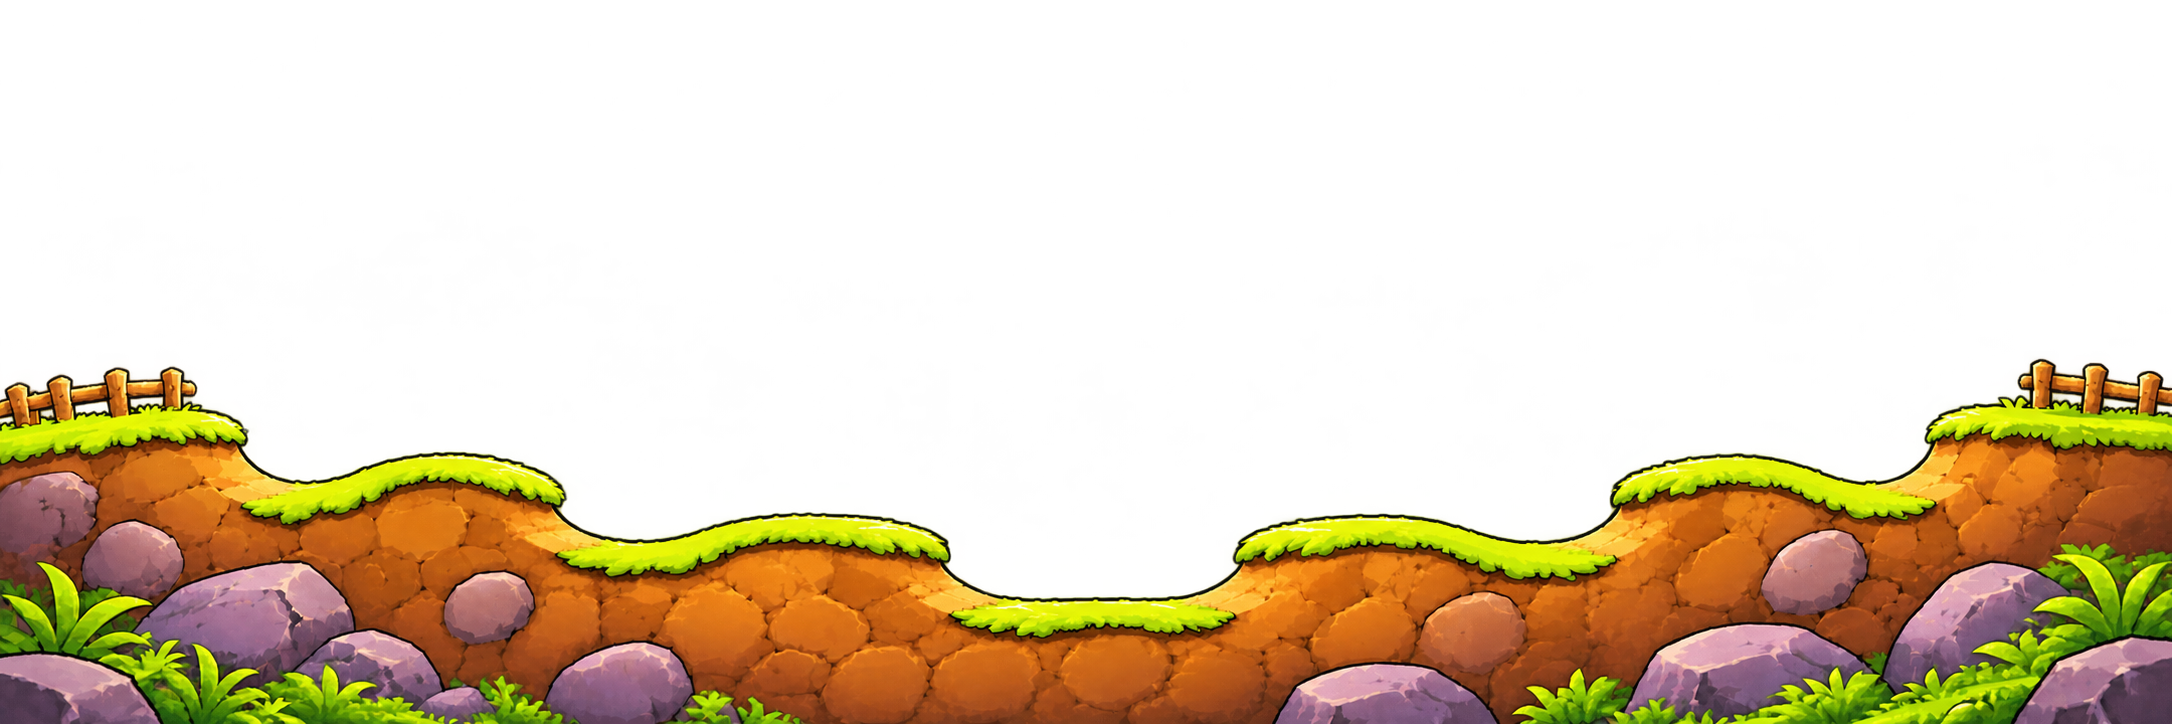
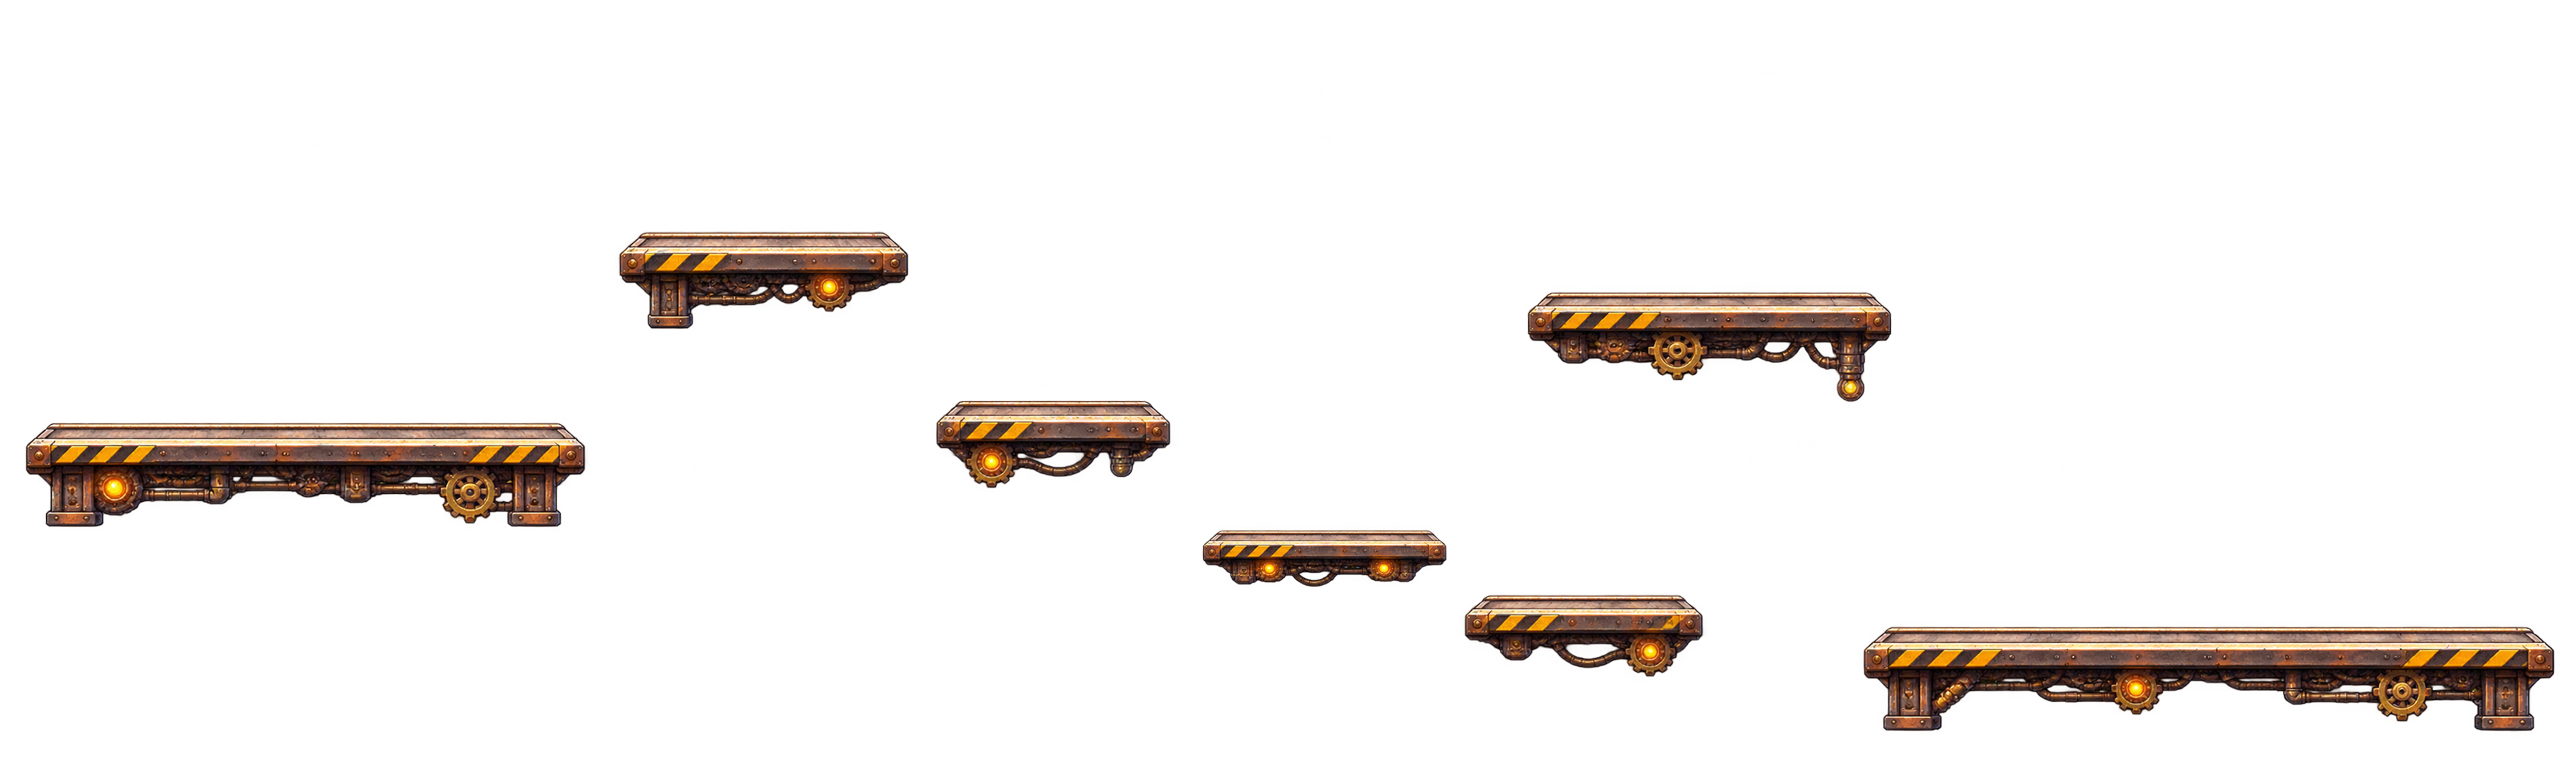
자연스러운 구덩이, 착탄 속도별 폭발 강도, 바람 강화, 화면 드래그
- 포탄 구덩이를 평평한 사발 모양으로 파고, 위에 남는 얇은 흙(처마)은 함께 제거
- 착탄 속도에 따라 구덩이 반경·데미지 0.7~1.3배
- 바람 가속을 최대 역풍·60°·풀파워 시 제자리로 돌아오도록 조정 (24.25)
- 조준 중 화면 드래그로 맵 둘러보기, 배경·땅 이미지 갱신

diff --git a/js/scenes/GameScene.js b/js/scenes/GameScene.js
@@ -36,6 +36,7 @@ class GameScene extends Phaser.Scene {
 
     this.debug = new URLSearchParams(location.search).has('debug');
     if (this.debug) this.setupDebug();
+    this.setupCameraDrag();
 
     cam.centerOn(this.tanks[0].x, CONFIG.WORLD_H / 2);
     this.startTurn();
@@ -51,15 +52,48 @@ class GameScene extends Phaser.Scene {
     const cam = this.cameras.main;
     const half = CONFIG.GAME_W / 2;
     const x = Phaser.Math.Clamp(tank.x, half, CONFIG.WORLD_W - half);
+    this.drag = null;
+    this.cameraFree = false;
     cam.stopFollow();
     cam.pan(x, CONFIG.WORLD_H / 2, 700, 'Sine.easeInOut', true, (c, progress) => {
-      if (progress === 1 && this.active === tank && this.state === 'aiming') {
-        cam.startFollow(tank.root, false, 0.15, 0.15);
-      }
+      if (progress === 1 && this.active === tank && this.state === 'aiming') this.followTank(tank);
     });
   }
 
+  // 내 턴에 쏘기 전(조준·충전 중)에는 화면을 끌어서 맵을 둘러볼 수 있다.
+  get canDragCamera() {
+    return (this.state === 'aiming' || this.state === 'charging') && !this.ai;
+  }
+
+  setupCameraDrag() {
+    const cam = this.cameras.main;
+    this.drag = null;
+    this.input.on('pointerdown', (p) => {
+      if (!this.canDragCamera) return;
+      this.drag = { x: p.x, scrollX: cam.scrollX };
+      cam.panEffect?.reset(); // 턴 시작 카메라 이동 중이면 멈춘다
+      cam.stopFollow();
+    });
+    this.input.on('pointermove', (p) => {
+      if (!this.drag || !p.isDown || !this.canDragCamera) return;
+      const maxX = CONFIG.WORLD_W - CONFIG.GAME_W;
+      cam.scrollX = Phaser.Math.Clamp(this.drag.scrollX - (p.x - this.drag.x), 0, maxX);
+      this.cameraFree = true;
+    });
+    const end = () => { this.drag = null; };
+    this.input.on('pointerup', end);
+    this.input.on('pointerupoutside', end);
+  }
+
+  // 둘러보던 화면을 다시 탱크로 붙인다.
+  followTank(tank) {
+    this.cameraFree = false;
+    this.cameras.main.startFollow(tank.root, false, 0.15, 0.15);
+  }
+
   followShell(shell) {
+    this.drag = null;
+    this.cameraFree = false;
     this.followedShell = shell;
     const cam = this.cameras.main;
     cam.stopFollow();
@@ -120,8 +154,11 @@ class GameScene extends Phaser.Scene {
     this.timeLeft -= dt;
     if (this.timeLeft <= 0) { this.beginResolve(); return; }
 
-    if (this.cursors.left.isDown) tank.move(-1, dt);
-    else if (this.cursors.right.isDown) tank.move(1, dt);
+    let moved = false;
+    if (this.cursors.left.isDown) moved = tank.move(-1, dt);
+    else if (this.cursors.right.isDown) moved = tank.move(1, dt);
+    // 둘러보다가 탱크를 움직이면 화면이 다시 탱크를 따라간다.
+    if (moved && this.cameraFree && !this.drag) this.followTank(tank);
 
     const T = CONFIG.TANK;
     if (this.cursors.up.isDown) tank.elevation += T.AIM_SPEED * dt;
@@ -230,22 +267,33 @@ class GameScene extends Phaser.Scene {
     s.sprite.destroy();
     s.trail.stop();
     this.time.delayedCall(500, () => s.trail.destroy());
-    if (hit !== 'out') this.explode(s.x, s.y, s.weapon);
+    if (hit !== 'out') this.explode(s.x, s.y, s.weapon, Math.hypot(s.vx, s.vy));
     // 따라가던 포탄이 끝나면 아직 날고 있는 다른 포탄으로 넘어간다.
     if (this.followedShell === s) this.followShell(this.shells[0] || null);
   }
 
-  explode(x, y, weapon) {
-    this.terrain.carve(x, y, weapon.radius);
+  // speed: 착탄 순간 속도. 빠를수록 구덩이가 크고 데미지가 세다.
+  explode(x, y, weapon, speed) {
+    const P = CONFIG.PHYSICS;
+    let scale = 1;
+    if (speed !== undefined) {
+      const k = Phaser.Math.Clamp(
+        (speed - P.IMPACT_SPEED_MIN) / (P.IMPACT_SPEED_MAX - P.IMPACT_SPEED_MIN), 0, 1);
+      scale = P.IMPACT_SCALE_MIN + (P.IMPACT_SCALE_MAX - P.IMPACT_SCALE_MIN) * k;
+    }
+    const radius = weapon.radius * scale;
+    const damage = weapon.damage * scale;
+
+    this.terrain.carve(x, y, radius);
     for (const t of this.tanks) {
       if (t.dead) continue;
       const d = Math.hypot(t.x - x, t.y - CONFIG.TANK.HIT_CENTER_Y - y);
       const edge = Math.max(0, d - CONFIG.TANK.BODY_RADIUS);
-      if (edge < weapon.radius) {
-        t.damage(Math.round(weapon.damage * (1 - edge / weapon.radius)));
+      if (edge < radius) {
+        t.damage(Math.round(damage * (1 - edge / radius)));
       }
     }
-    this.explosionFx(x, y, weapon.radius);
+    this.explosionFx(x, y, radius);
   }
 
   beginResolve() {

diff --git a/js/terrain.js b/js/terrain.js
@@ -189,35 +189,59 @@ class Terrain {
 
   // ---- 변형 ----
 
+  // 열(column) 단위로 파낸다. 바닥은 평평한 사발 모양이고,
+  // 구덩이 위로 얇게 남는 흙(처마)은 함께 걷어 내 공중에 뜬 흙이 생기지 않게 한다.
   carve(cx, cy, r) {
-    const r2 = r * r;
+    const { w, h, solid } = this;
+    const depth = r * 0.72;        // 폭발 중심 아래로 파이는 깊이
+    const p = 2.6;                 // 클수록 바닥이 평평하고 벽이 가파르다
+    const lipMax = r * 1.1;        // 이 두께 이하의 처마만 걷어 낸다 (두꺼운 절벽은 남김)
+    const ph1 = Math.random() * Math.PI * 2;
+    const ph2 = Math.random() * Math.PI * 2;
     const x0 = Math.max(0, Math.floor(cx - r));
-    const x1 = Math.min(this.w - 1, Math.ceil(cx + r));
-    const y0 = Math.max(0, Math.floor(cy - r));
-    const y1 = Math.min(this.h - 1, Math.ceil(cy + r));
-    for (let y = y0; y <= y1; y++) {
-      for (let x = x0; x <= x1; x++) {
-        if ((x - cx) ** 2 + (y - cy) ** 2 <= r2) this.solid[y * this.w + x] = 0;
-      }
-    }
+    const x1 = Math.min(w - 1, Math.ceil(cx + r));
 
     const ctx = this.ctx;
     ctx.save();
     ctx.globalCompositeOperation = 'destination-out';
-    ctx.beginPath();
-    ctx.arc(cx, cy, r, 0, Math.PI * 2);
-    ctx.fill();
+    const bottom = [];
+    for (let x = x0; x <= x1; x++) {
+      const t = Math.min(1, Math.abs(x - cx) / r);
+      // 바닥선에 약간의 울퉁불퉁함을 준다 (가장자리로 갈수록 0).
+      const wobble = (Math.sin(x * 0.11 + ph1) * 0.6 + Math.sin(x * 0.27 + ph2) * 0.4) * r * 0.06 * (1 - t);
+      const yb = Math.min(h - 1, Math.round(cy + depth * Math.pow(1 - Math.pow(t, p), 1 / p) + wobble));
+      const half = Math.sqrt(Math.max(0, 1 - t * t)) * r * 0.85;
+      let yt = Math.max(0, Math.round(cy - half));
 
-    // 남은 흙 가장자리에만 그을음을 입힌다.
+      // 위쪽 처마: 폭발 범위 위로 이어진 흙 덩어리 두께를 재서 얇으면 같이 걷어 낸다.
+      let y = yt - 1;
+      while (y >= 0 && solid[y * w + x] === 1 && yt - y <= lipMax) y--;
+      if (y < 0 || solid[y * w + x] === 0) yt = y + 1;
+
+      if (yb >= yt) {
+        for (let yy = yt; yy <= yb; yy++) solid[yy * w + x] = 0;
+        ctx.fillRect(x, yt, 1, yb - yt + 1);
+      }
+      bottom.push(x, yb);
+    }
+
+    // 파인 바닥을 따라 그을음을 입힌다 (남은 흙 위에만).
     ctx.globalCompositeOperation = 'source-atop';
-    const rim = r + 14;
-    const grad = ctx.createRadialGradient(cx, cy, r, cx, cy, rim);
-    grad.addColorStop(0, 'rgba(18, 9, 5, 0.85)');
-    grad.addColorStop(1, 'rgba(18, 9, 5, 0)');
-    ctx.fillStyle = grad;
-    ctx.beginPath();
-    ctx.arc(cx, cy, rim, 0, Math.PI * 2);
-    ctx.fill();
+    ctx.lineJoin = 'round';
+    ctx.lineCap = 'round';
+    const strokeBottom = (width, color, blur) => {
+      ctx.filter = blur ? `blur(${blur}px)` : 'none';
+      ctx.strokeStyle = color;
+      ctx.lineWidth = width;
+      ctx.beginPath();
+      for (let k = 0; k < bottom.length; k += 2) {
+        if (k === 0) ctx.moveTo(bottom[k], bottom[k + 1]);
+        else ctx.lineTo(bottom[k], bottom[k + 1]);
+      }
+      ctx.stroke();
+    };
+    strokeBottom(28, 'rgba(18, 9, 5, 0.45)', 6);
+    strokeBottom(10, 'rgba(18, 9, 5, 0.75)', 2);
     ctx.restore();
 
     this.texture.refresh();

diff --git a/js/config.js b/js/config.js
@@ -22,7 +22,13 @@ const CONFIG = {
   PHYSICS: {
     GRAVITY: 420,        // px/s²
     POWER_TO_SPEED: 10.5, // 파워 100 = 1050 px/s (최대 사거리 약 2600px)
-    WIND_ACCEL: 5,       // 바람 1당 px/s²
+    IMPACT_SPEED_MIN: 300,  // 착탄 속도가 이 이하면 폭발 강도 최소
+    IMPACT_SPEED_MAX: 1200, // 이 이상이면 최대 (파워 100 발사 1050px/s + 낙하 가속)
+    IMPACT_SCALE_MIN: 0.7,  // 구덩이 반경·데미지 배율
+    IMPACT_SCALE_MAX: 1.3,
+    // 바람 1당 px/s². 최대 역풍에서 60° 풀파워로 쏘면 제자리로 돌아오도록 맞춘 값:
+    // 평지 기준 착지 x = 0 이 되는 조건은 a = g / tan(60°) = 420 / 1.732 ≈ 242.5 → 바람 10으로 나눔.
+    WIND_ACCEL: 24.25,
     WIND_MAX: 10,
     STEP: 1 / 240,       // 탄 적분 간격 (최고 속도에서 스텝당 5px 이하)
     MAX_FLIGHT: 12,      // 초

diff --git a/js/hud.js b/js/hud.js
@@ -27,7 +27,7 @@ class Hud {
     this.info = text(W / 2, H - 104, 20, 0.5);
     this.weapons = text(W / 2, H - 34, 18, 0.5);
     this.help = text(16, H - 30, 14);
-    this.help.setText('←→ 이동  ↑↓ 각도  Space 충전/발사  1·2·3 무기').setAlpha(0.85);
+    this.help.setText('←→ 이동  ↑↓ 각도  Space 충전/발사  1·2·3 무기  드래그 화면 이동').setAlpha(0.85);
 
     // 미니맵: 지형 캔버스를 1/10로 축소해 그린다.
     this.mini = { w: 256, h: 77, x: W - 16 - 256, y: H - 16 - 77 };
